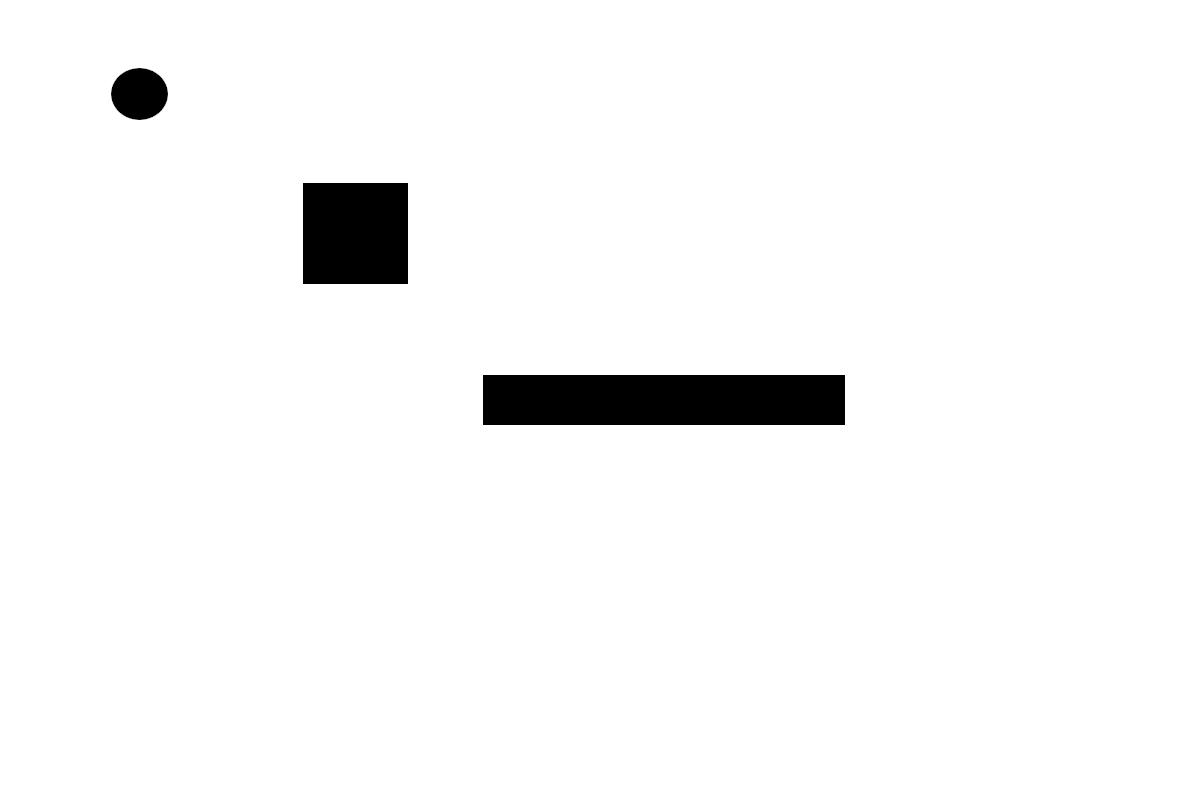
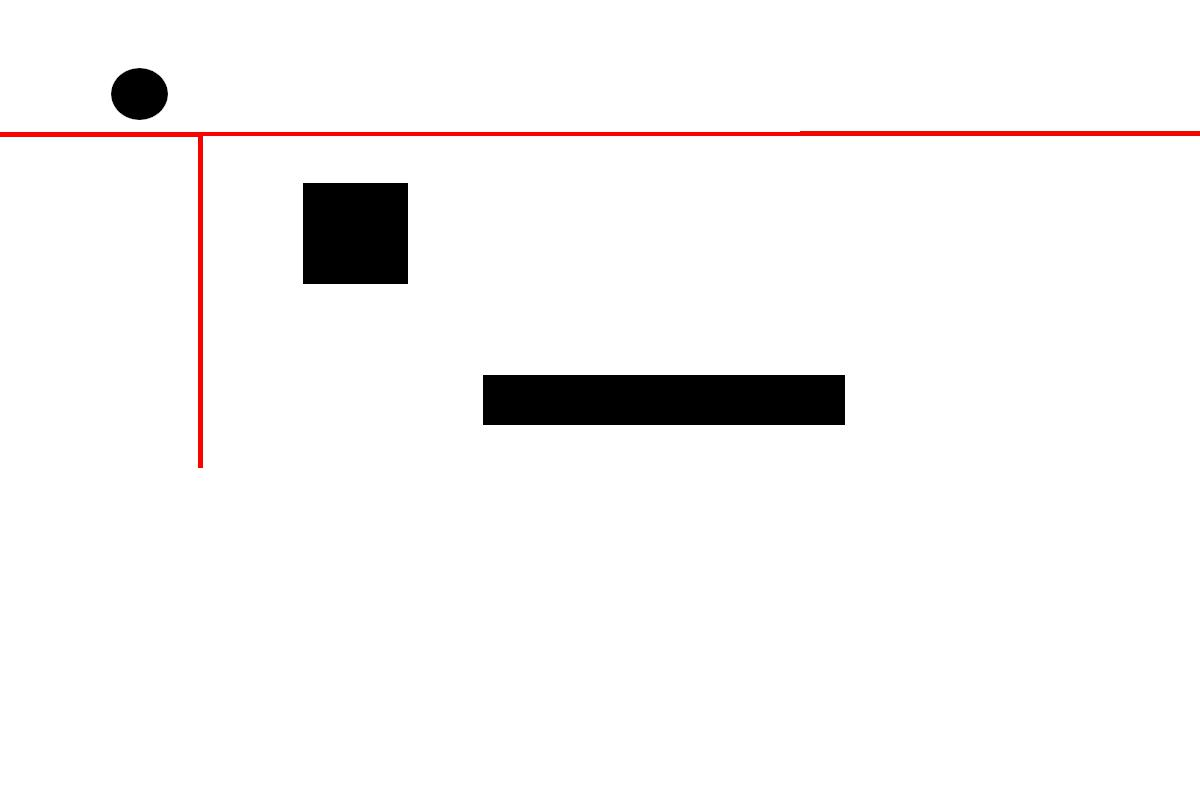
Map

Changed region(s): [[0.0, 0.1562, 1.0, 0.5938]]

diff --git a/Lab5/lab5_base/lab5_base.py b/Lab5/lab5_base/lab5_base.py
@@ -354,13 +354,13 @@ def part_2(args):
   g_MAP_RESOLUTION_X = 0.1  # Each col represents 10cm
   g_MAP_RESOLUTION_Y = 0.1  # Each row represents 10cm
   pixel_grid = _load_img_to_intensity_matrix(args.obstacles)
-  g_NUM_X_CELLS = int(g_MAP_SIZE_X // g_MAP_RESOLUTION_X) # Number of columns in the grid map
-  g_NUM_Y_CELLS = int(g_MAP_SIZE_Y // g_MAP_RESOLUTION_Y)
+  g_NUM_X_CELLS = 1200 # Number of columns in the grid map
+  g_NUM_Y_CELLS = 800
   g_WORLD_MAP = [0] * g_NUM_Y_CELLS * g_NUM_X_CELLS
 
   source = (round((float(g_src_coordinates[0])/g_MAP_SIZE_X)*g_NUM_X_CELLS),round((float(g_src_coordinates[1])/g_MAP_SIZE_Y)*g_NUM_Y_CELLS))
   dest = (round((float(g_dest_coordinates[0]) / g_MAP_SIZE_X) * g_NUM_X_CELLS), round((float(g_dest_coordinates[1]) / g_MAP_SIZE_Y) * g_NUM_Y_CELLS))
-
+  print(g_NUM_X_CELLS,g_NUM_Y_CELLS)
 
   # Run Dijkstra's on our randomly generated map and our starting source node
   obstacleMap = []
@@ -391,10 +391,14 @@ def part_2(args):
 
   img = Image.open(args.obstacles)
   draw = ImageDraw.Draw(img)
-  start = vertex_index_to_ij(path[i])
+  start = vertex_index_to_ij(path[0])
   for n in path:
-      draw.line((start,vertex_index_to_ij(path[i])),width=1)
-      start = vertex_index_to_ij(path[i])
+      line = []
+      line.append(start)
+      line.append(vertex_index_to_ij(n))
+      draw.line(line,fill=255,width=5)
+      start = vertex_index_to_ij(n)
+  img.show()
 
 
 
